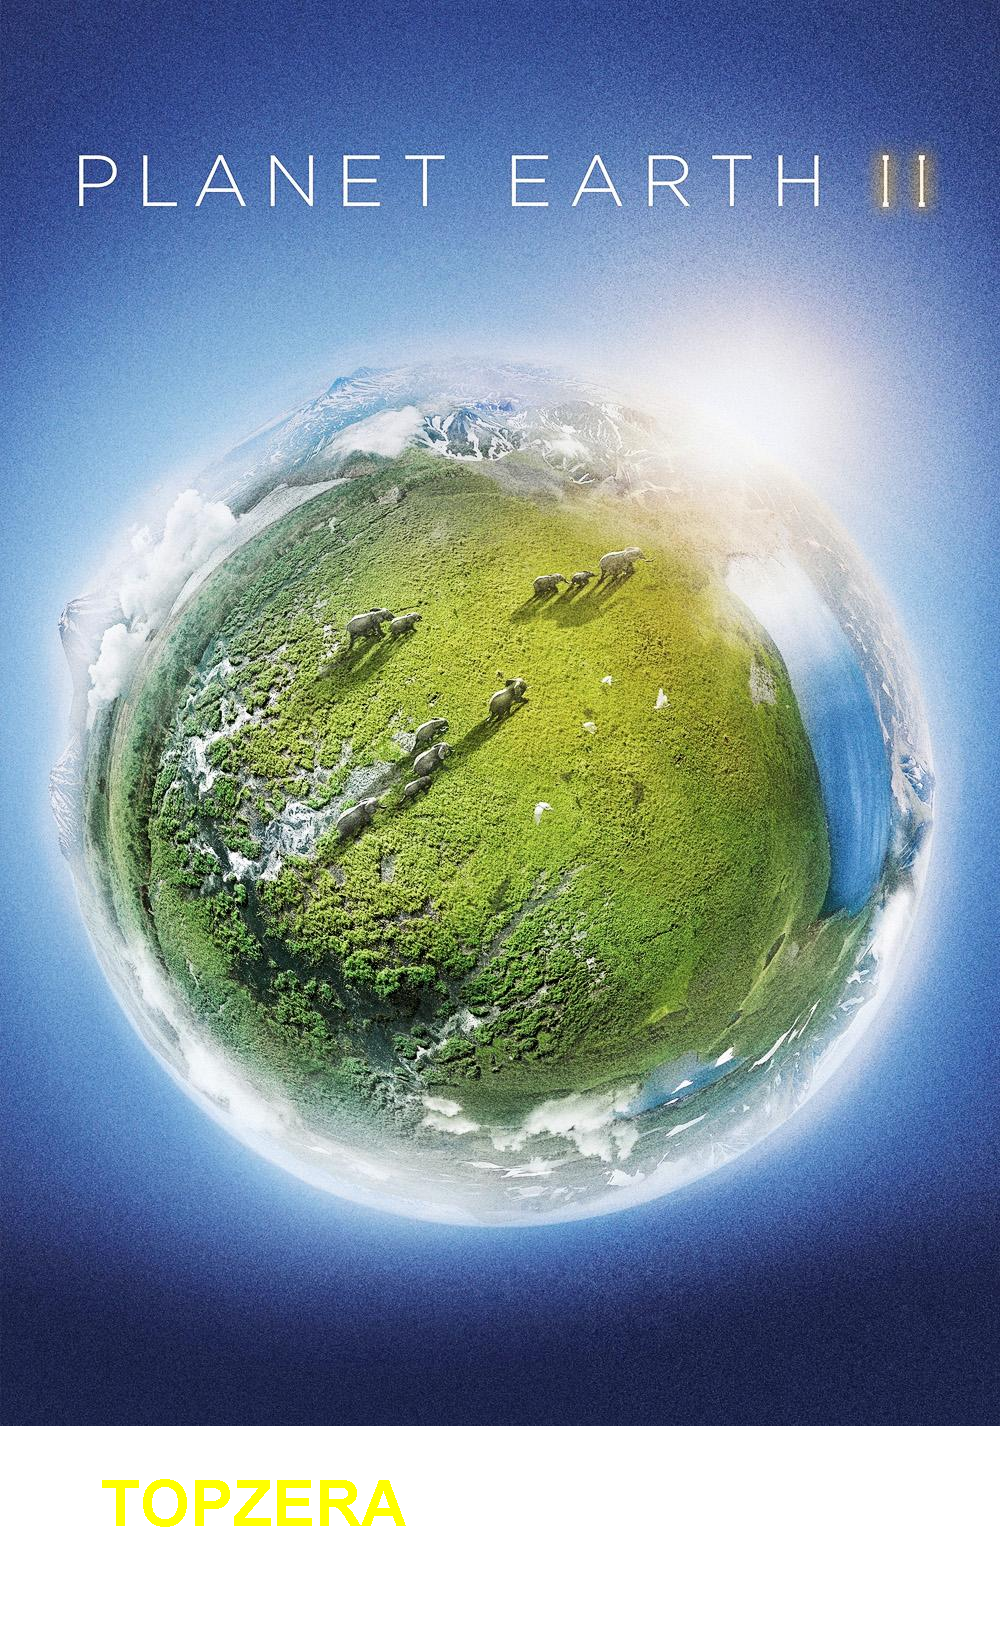
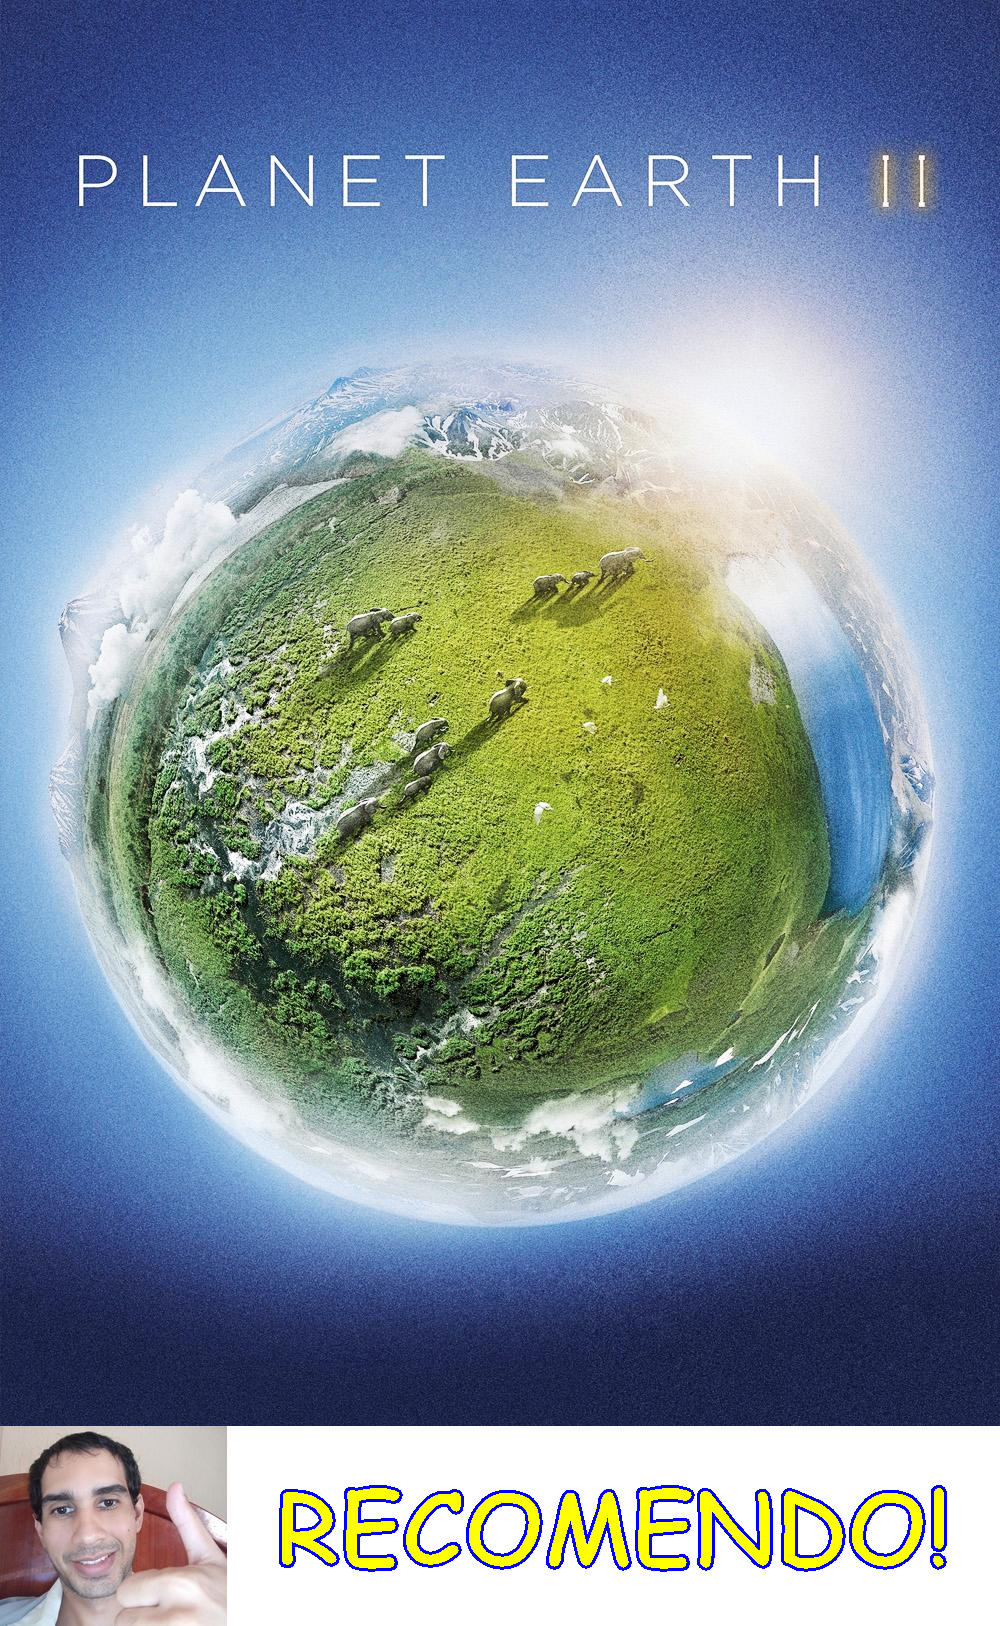
Desafios da aula 02

Changed region(s): [[0.0, 0.861, 0.961, 1.0]]

diff --git a/src/GeradoraDeFigurinhas.java b/src/GeradoraDeFigurinhas.java
@@ -1,6 +1,15 @@
+import java.awt.BasicStroke;
 import java.awt.Color;
 import java.awt.Font;
+import java.awt.FontMetrics;
 import java.awt.Graphics2D;
+import java.awt.Rectangle;
+import java.awt.Shape;
+import java.awt.Stroke;
+import java.awt.font.FontRenderContext;
+import java.awt.font.TextLayout;
+import java.awt.geom.AffineTransform;
+import java.awt.geom.Rectangle2D;
 import java.awt.image.BufferedImage;
 import java.io.File;
 import java.io.InputStream;
@@ -9,11 +18,9 @@ import javax.imageio.ImageIO;
 
 public class GeradoraDeFigurinhas
 {
-    public void cria(InputStream inputStream, String nomeArquivo) throws Exception
+    public void cria(InputStream inputStream, String nomeArquivo, String texto, InputStream imagemAluno) throws Exception
     {
         // leitura da imagem
-        //InputStream inputStream = new FileInputStream(new File("entrada/TopTVs_3.jpg"));
-        //InputStream inputStream = new URL("https://raw.githubusercontent.com/alura-cursos/imersao-java-2-api/main/TopTVs_3.jpg").openStream();
         BufferedImage imagemOriginal = ImageIO.read(inputStream);
 
         // cria nova imagem em memória com transparência e com tamanho novo
@@ -27,24 +34,49 @@ public class GeradoraDeFigurinhas
         Graphics2D graphics = (Graphics2D) novaImagem.getGraphics();
         graphics.drawImage(imagemOriginal, 0, 0, null);
 
-        // Configurar a fonte
-        Font font = new Font(Font.SANS_SERIF, Font.BOLD, 64);
-        graphics.setColor(Color.YELLOW);
-        graphics.setFont(font);
+        //Colocando imagem do aluno
+        BufferedImage imagemWilliam = ImageIO.read(imagemAluno);
+        graphics.drawImage(imagemWilliam, 0, altura, null);
 
+        // Configurar a fonte e cor
+        Font fonte = new Font("Comic Sans MS", Font.BOLD, 100);
+        graphics.setColor(Color.YELLOW);
+        graphics.setFont(fonte);
+
+        //Calculando espaçamento para centralizar o texto
+        FontMetrics fontMetrics = graphics.getFontMetrics();
+        Rectangle2D rectangle = fontMetrics.getStringBounds(texto, graphics);
+        double larguraTexto = rectangle.getWidth();
+        double alturaTexto = rectangle.getHeight();
+        int espacamentoEsquerdo = ((largura-(int)larguraTexto-imagemWilliam.getWidth())/2)+imagemWilliam.getWidth();
+        int espacamentoSuperior = novaAltura-((200-(int) alturaTexto));
 
         // Escrever uma frase na nova imagem
-        graphics.drawString("TOPZERA", 100, novaAltura-100);
+        graphics.drawString(texto, espacamentoEsquerdo, espacamentoSuperior);
+
+        //Colocando contorno no texto
+        FontRenderContext fontRenderContext = graphics.getFontRenderContext();
+        TextLayout textLayout = new TextLayout(texto, fonte, fontRenderContext);
+        Shape shape = textLayout.getOutline(null);
+        AffineTransform affineTransform = graphics.getTransform();
+        affineTransform.translate(espacamentoEsquerdo, espacamentoSuperior);
+        graphics.setTransform(affineTransform);
+
+        Stroke Stroke = new BasicStroke(3.0f);
+        graphics.setStroke(Stroke);
+
+        graphics.setColor(Color.BLUE);
+        graphics.draw(shape);
+        graphics.setClip(shape);
+
+        //Verifica se o diretório de saída existe. Se não existir, cria o diretório.
+        File diretorioSaida = new File("saida");
+        if(!diretorioSaida.exists())
+        {
+            diretorioSaida.mkdir();
+        }
 
         // Escrever a nova imagem em um arquivo
         ImageIO.write(novaImagem, "png", new File("saida/" + nomeArquivo));
-
-    }
-
-    public static void main(String[] args) throws Exception
-    {
-        GeradoraDeFigurinhas geradora = new GeradoraDeFigurinhas();
-
-        //geradora.cria();
     }
 }

diff --git a/src/App.java b/src/App.java
@@ -1,4 +1,6 @@
 import java.io.BufferedReader;
+import java.io.File;
+import java.io.FileInputStream;
 import java.io.FileReader;
 import java.io.InputStream;
 import java.net.URI;
@@ -72,12 +74,19 @@ public class App
                     float fRating = Float.parseFloat(filme.get("imDbRating"));
                     int rating = (int) Math.floor(fRating);
 
+                    String textoFigurinha = "";
+                    String figurinhaWilliam = "";
+
                     if(rating>=5)
                     {
+                        textoFigurinha = "RECOMENDO!";
+                        figurinhaWilliam = "img/AuxiliarSticker/Recomendo.jpg";
                         System.out.print("👍 ");
                     }
                     else
                     {
+                        textoFigurinha = "NÃO RECOMENDO!";
+                        figurinhaWilliam = "img/AuxiliarSticker/NaoRecomendo.jpg";
                         System.out.print("👎 ");
                     }
 
@@ -100,8 +109,10 @@ public class App
                     System.out.println("\n");
                     
                     InputStream inputStream = new URL(urlImagem).openStream();
+                    InputStream imagemWilliam = new FileInputStream(new File(figurinhaWilliam));
+
                     GeradoraDeFigurinhas geradoraDeFigurinhas = new GeradoraDeFigurinhas();
-                    geradoraDeFigurinhas.cria(inputStream, filme.get("title")+".png");
+                    geradoraDeFigurinhas.cria(inputStream, filme.get("title").replace(":", " -") +".png", textoFigurinha, imagemWilliam);
                 }
 
             }

diff --git a/README.md b/README.md
@@ -54,6 +54,58 @@ Projeto desenvolvido na imersão Java da Alura, realizada entre os dias 27/03/20
     </li>
     <li>
         <h3>Aula 02 | 28/03/2023 | Gerando figurinhas para WhatsApp.</h3>
+        <ul>
+            <li>
+                <b>Objetivo:</b> Gerar figurinhas para WhatsApp a partir das imagens fornecidas pela API da IMDB. Mais uma vez, devido à instabilidade do IMDB, foram utilizados os links alternativos oferecidos pelos instrutores. Foi percebido que as figurinhas de alguns filmes não eram geradas devido a presença de dois pontos (:) no nome do arquivo. Para resolver este problema os dois pontos (:) foram substituídos por traço (-).
+            </li>
+            <li>
+            <b>Desafios:</b>
+                <ul>
+                    <li>
+                        <b>Criar diretório de saída das imagens, se ainda não existir: </b> Desafio realizado.
+                    </li>
+                    <li>
+                        <b>Centralizar o texto na figurinha: </b> desafio realizado.
+                    </li>
+                    <li>
+                        <b>Colocar outra fonte como a Comic Sans ou a Impact, a fonte usada em memes: </b> Realizado. Foi colocado a Comic Sans.
+                    </li>
+                    <li>
+                        <b>Colocar contorno (outline) no texto da imagem: </b> Realizado.
+                    </li>
+                    <li>
+                        <b>Colocar uma imagem de você que está fazendo esse curso sorrindo, fazendo joinha e fazer com que o texto da figurinha seja personalizado de acordo com as classificações do IMDB: </b> Realizado.
+                    </li>
+                </ul>
+            </li>
+            <li>
+                <b>Resultados:</b>
+                <table>
+                    <tr>
+                        <td align="center">
+                            <img src="https://github.com/simastech-com/alura-stickers/blob/main/img/Aula%2001/TopMovies.png" width="200">
+                        </td>
+                        <td align="center">
+                            <img src="https://github.com/simastech-com/alura-stickers/blob/main/img/Aula%2001/MostPopularMovies_TopTvs.png" width="200">
+                        </td>
+                        <td align="center">
+                            <img src="https://github.com/simastech-com/alura-stickers/blob/main/img/Aula%2001/TopTvs_MostPopularTvs.png" width="200">
+                        </td>
+                    </tr>
+                    <tr>
+                        <td>
+                            Top Movies
+                        </td>
+                        <td>
+                            Most Popular Movies & Top Tvs
+                        </td>
+                        <td>
+                            Top Tvs & Most Popular Tvs
+                        </td>
+                    </tr>
+                </table>
+            </li>
+        </ul>
     </li>
     <li>
         <h3>Aula 03 | 29/03/2023 | Ligando as pontas: Refatoração e orientação a objetos.</h3>
